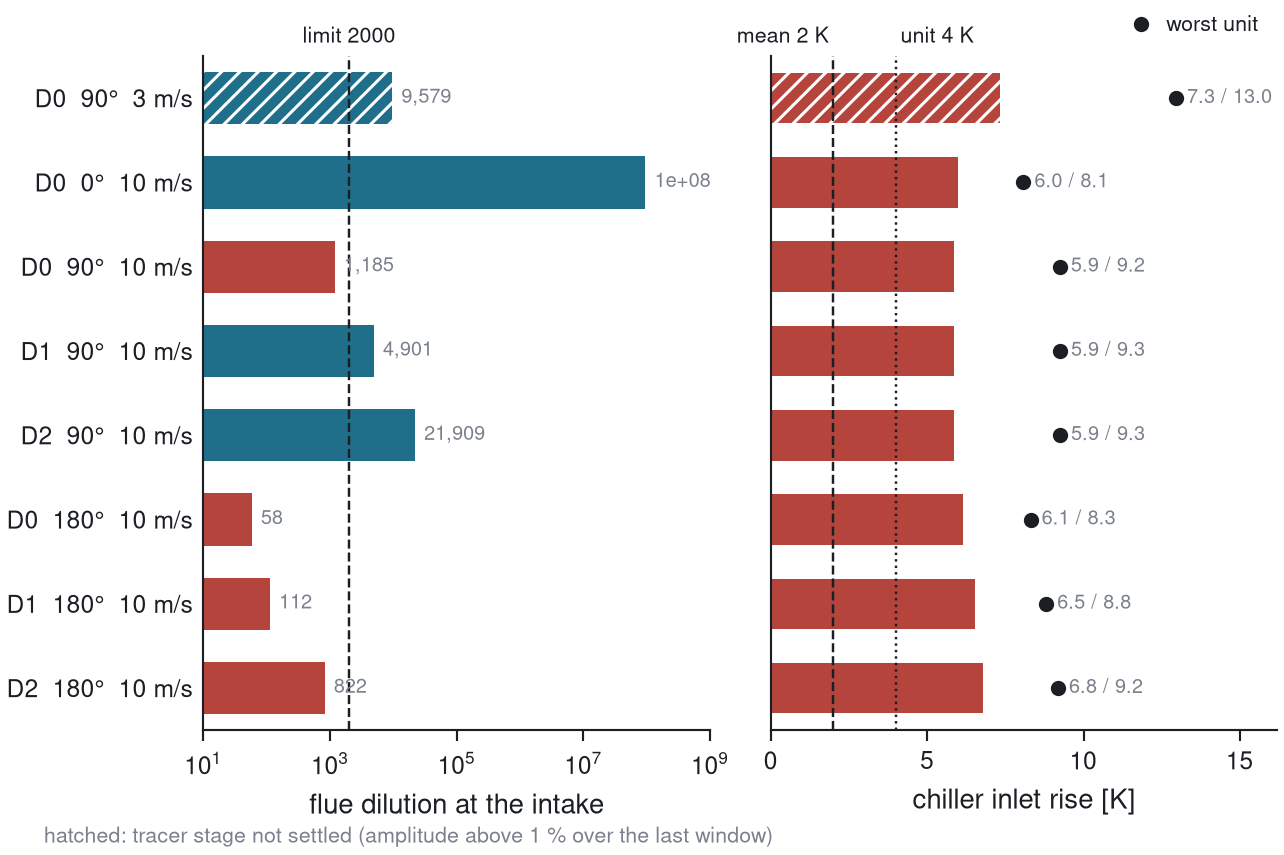
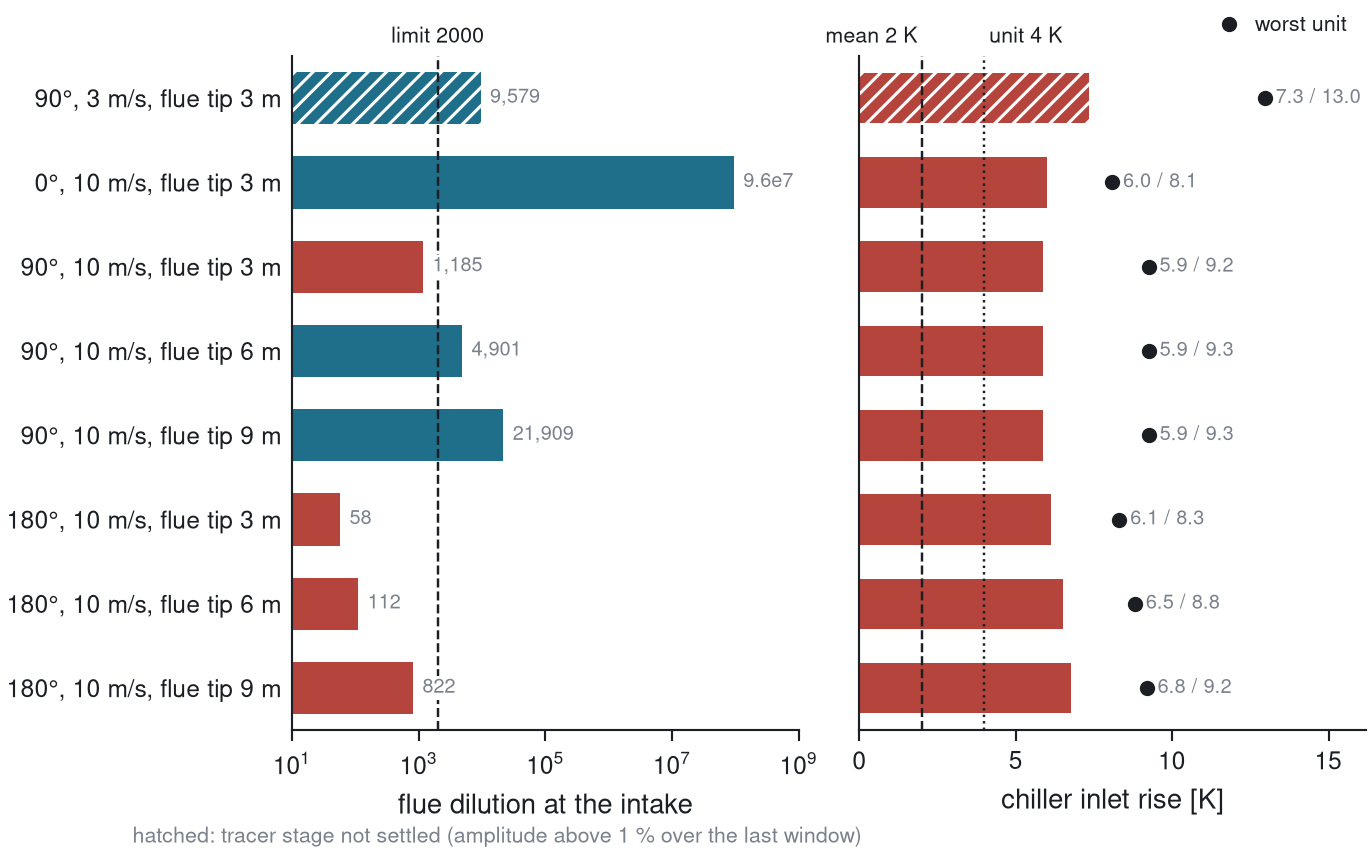
conditions chart: plain condition labels, value labels kept clear of the limit line

diff --git a/postproc/figures/fig_conditions.py b/postproc/figures/fig_conditions.py
@@ -20,7 +20,8 @@ def main():
         if not m: continue
         rows.append((m.group(1), int(m.group(2)), float(m.group(3)), r))
     rows.sort(key=lambda t: (t[2], t[1], t[0]))
-    lab = [f"{v}  {d}°  {u:g} m/s" for v, d, u, _ in rows]
+    tips = json.load(open("params/applied_design.json"))["variants"]
+    lab = [f"{d}°, {u:g} m/s, flue tip {tips[v]['flue_tip_m']:g} m" for v, d, u, _ in rows]
     dil = np.array([r["intake_dilution_flues"] for *_, r in rows]); mean = np.array([r["chiller_rise_mean_K"] for *_, r in rows])
     worst = np.array([r["chiller_rise_max_K"] for *_, r in rows]); amp = np.array([r.get("convergence_max_rel_amplitude_pct_last_window", 0) for *_, r in rows])
     y = np.arange(len(rows))
@@ -34,7 +35,8 @@ def main():
         ax2.barh(i, mean[i], color=style.CFD if mean[i] <= 2 else style.CFD3, height=0.6, hatch=h, edgecolor="white", lw=0)
     ax2.plot(worst, y, "o", color=style.INK, ms=4, label="worst unit")
     for i in y:
-        ax1.text(dil[i] * 1.4, i, f"{dil[i]:,.0f}" if dil[i] < 1e5 else f"{dil[i]:.0e}", va="center", fontsize=6.5, color=style.GREY)
+        txt = f"{dil[i]:,.0f}" if dil[i] < 1e5 else f"{dil[i] / 10 ** int(np.log10(dil[i])):.1f}e{int(np.log10(dil[i]))}"
+        ax1.text(dil[i] * 1.4, i, txt, va="center", fontsize=6.5, color=style.GREY, bbox=dict(fc="white", ec="none", pad=0.6))
         ax2.text(worst[i] + 0.35, i, f"{mean[i]:.1f} / {worst[i]:.1f}", va="center", fontsize=6.5, color=style.GREY)
     ax1.set_xscale("log"); ax1.axvline(2000, color=style.INK, lw=0.8, ls="--"); ax1.text(2000, 1.02, "limit 2000", ha="center", fontsize=7, transform=ax1.get_xaxis_transform())
     ax1.set_xlabel("flue dilution at the intake"); ax1.set_xlim(1e1, 1e9)
